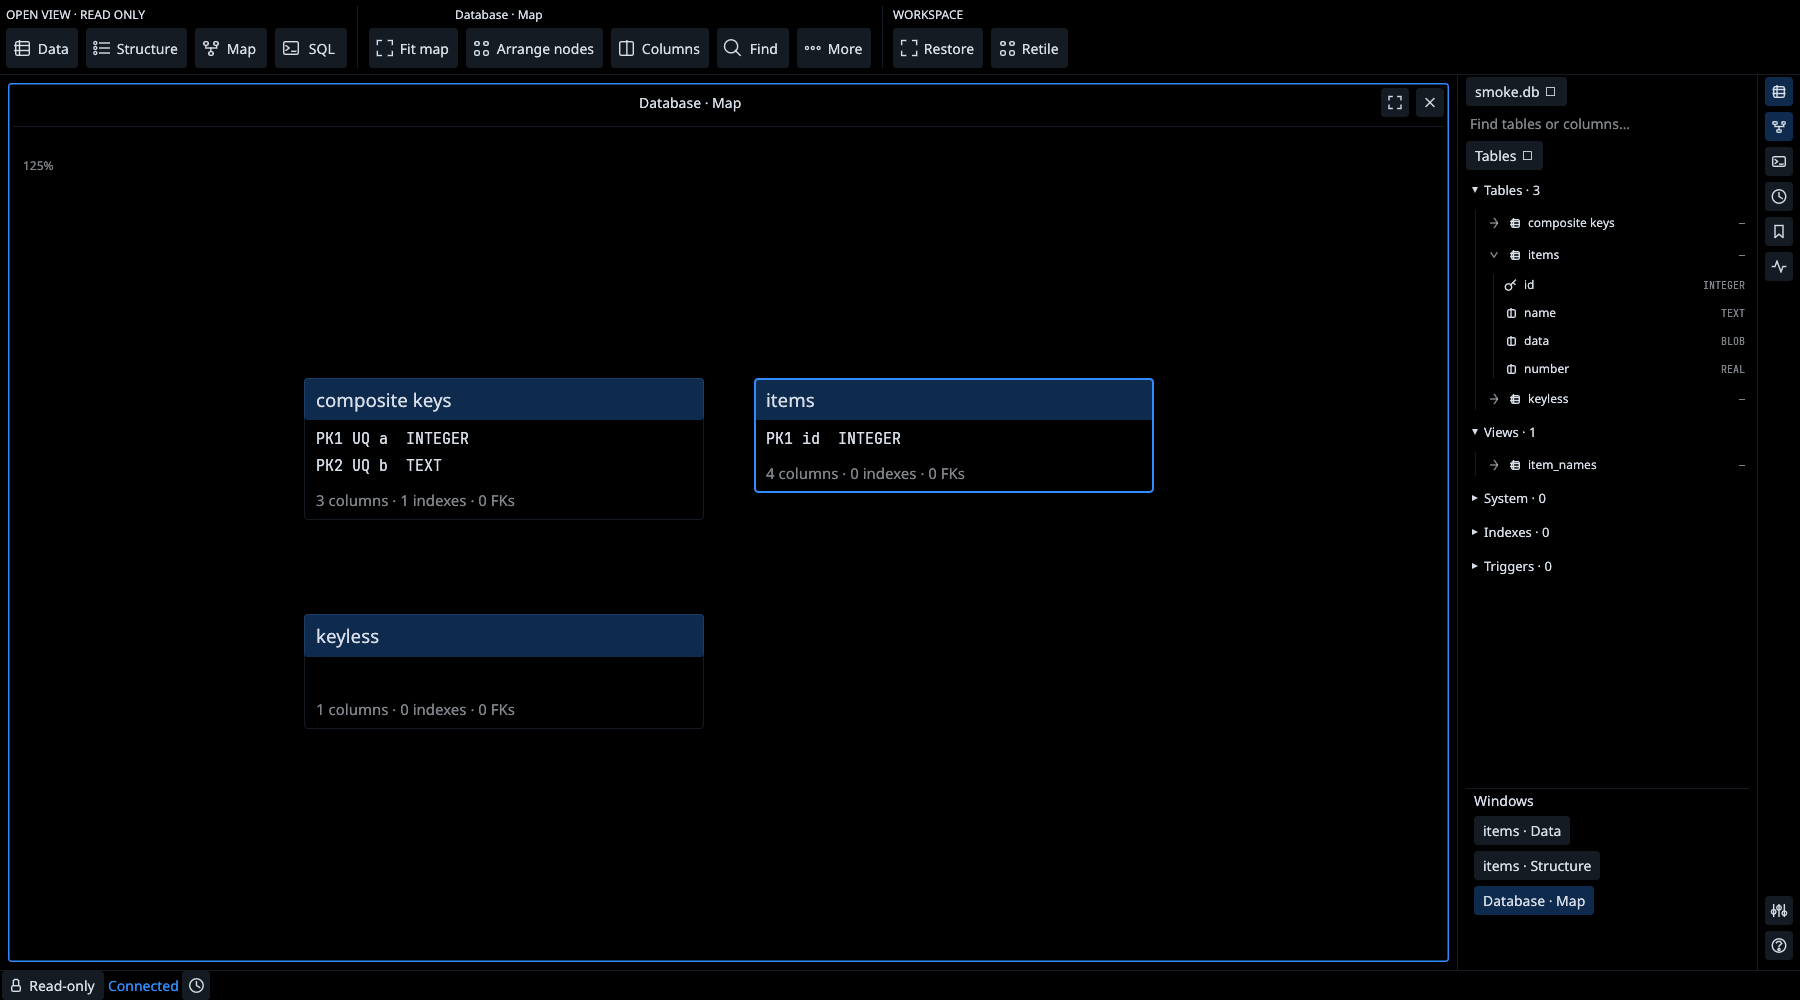
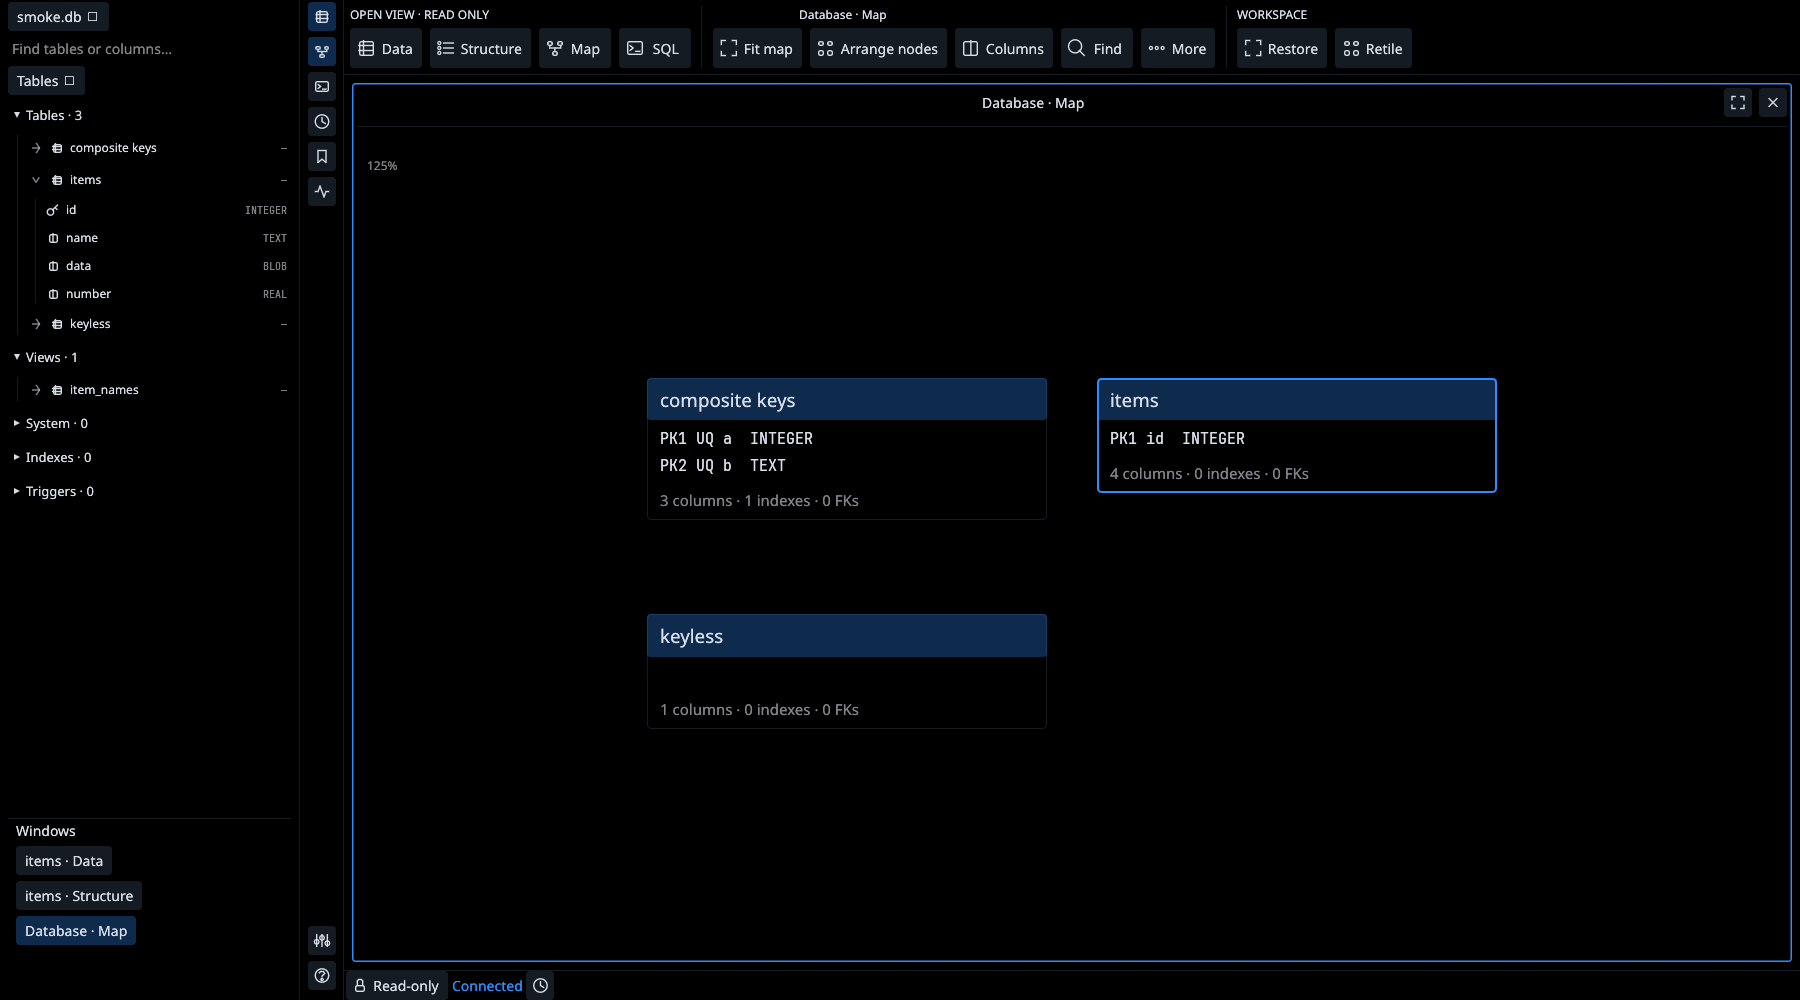
fix: anchor navigation to the full-height left edge

diff --git a/docs/redesign-v5-tiling.html b/docs/redesign-v5-tiling.html
@@ -45,6 +45,11 @@ a{color:var(--primary)} .icon{width:18px;height:18px;fill:none;stroke:currentCol
 @media(min-width:1100px){.source-grid{grid-template-columns:1fr 1fr}.source-grid figure:last-child{grid-column:1/-1}}
 @media(max-width:800px){.app-workspace{grid-template-columns:minmax(0,1fr) 135px}.navigation{padding-left:8px}.prototype{padding:12px}.group{gap:4px;padding-right:8px}.ribbon{gap:8px}.ribbon button{padding:6px 8px}.ribbon .icon{width:18px;height:18px}.principles{grid-template-columns:1fr}.note{display:grid;grid-template-columns:24px 1fr;gap:0 8px}.note .number{grid-row:1/3}.note h3{margin:0 0 4px}.demo-options .hint{width:100%;margin:0}.app-title .db{font-size:10px}}
 @media(max-width:480px){.app-workspace{grid-template-columns:minmax(0,1fr) 51px;gap:6px}.navigation{padding-left:4px}.navigation .nav-text,.navigation .count,.navigation input,.navigation .nav-foot,.window-list .nav-text{display:none}.navigation button{justify-content:center;padding:6px}.navigation .nav-label{font-size:8px;letter-spacing:0;overflow:hidden}.navigation .window-list button{font-size:9px}.app-title .db{display:none}.context .right{display:none}.canvas,.navigation{height:480px}.prototype{padding:10px}.status span:last-child{display:none}.tile-title{font-size:10px}.intro h1{font-size:20px}.tile-header{gap:3px}.tile-header .icon{width:13px}.tile-header button{min-width:25px;width:25px}}
+/* Updated implementation: navigation owns the full left edge, outside all workspace chrome. */
+.prototype{display:grid;grid-template-columns:175px minmax(0,1fr);column-gap:10px}
+.app-workspace{display:contents}.app-title{grid-column:2;grid-row:1}.ribbon{grid-column:2;grid-row:2}.context{grid-column:2;grid-row:3}.canvas{grid-column:2;grid-row:4}.status{grid-column:2;grid-row:5}
+.navigation{grid-column:1;grid-row:1 / 6;height:auto;border-left:0;border-right:1px solid var(--line);padding-left:0;padding-right:10px}
+@media(max-width:760px){.prototype{grid-template-columns:125px minmax(0,1fr)}}
 </style>
 </head>
 <body>
@@ -69,7 +74,7 @@ a{color:var(--primary)} .icon{width:18px;height:18px;fill:none;stroke:currentCol
 <main>
 <div class="intro"><div class="eyebrow">TursoBench / Redesign proposal 05</div>
 <h1>A workspace shaped by your data.</h1>
-<p>System colors. Independent views. A persistent right navigator. Open a view and the workspace makes room for it; expand it when you need to concentrate.</p></div>
+<p>System colors. Independent views. A persistent left navigator. Open a view and the workspace makes room for it; expand it when you need to concentrate.</p></div>
 <div class="demo-options">
 <label>Appearance <select id="palette"><option value="machine">This machine · black / blue</option><option value="system">Follow system · browser</option><option value="light">Light · fallback example</option></select></label>
 <button id="reset">Reset example</button>
@@ -100,7 +105,7 @@ a{color:var(--primary)} .icon{width:18px;height:18px;fill:none;stroke:currentCol
 </div>
 <div class="status"><span>●</span><span>Local · read only</span><span id="status">20 sample rows loaded</span><span>System fonts · 100%</span></div>
 </section>
-<div class="notice" id="notice" role="status" aria-live="polite">Try SQL to add a window. Click a row to open its record. Expand any window; the right navigator stays in place.</div>
+<div class="notice" id="notice" role="status" aria-live="polite">Try SQL to add a window. Click a row to open its record. Expand any window; the left navigator stays in place.</div>
 <div class="legend"><span><i class="dot"></i>Blue outline = focused window</span><span>Drag dividers to resize</span><span><kbd>Esc</kbd> restores tiles</span><span>Ribbon follows focus</span></div>
 <div class="principles">
 <article class="note"><span class="number">01</span><h3>Your theme is the default</h3><p>Black surfaces, blue focus outlines, small corners and system fonts match this machine. Emerald stays in the existing app icon.</p></article>
@@ -119,7 +124,7 @@ a{color:var(--primary)} .icon{width:18px;height:18px;fill:none;stroke:currentCol
 <ul>
 <li><strong>Minimums, then tabs:</strong> provisional native minimums: grid 420 × 200, structure 260 × 180, map 320 × 220, SQL 460 × 200, record 280 × 180 logical pixels. Measure them against system font size and scale. The embedded demo uses smaller minimums to remain usable inside this conversation.</li>
 <li><strong>Preserve intent:</strong> drag splitters, with minimums enforced; manually sized splits stay fixed until Retile. Closing a window collapses its branch. Expanding stores the tree and selected tabs; Restore returns to that exact arrangement. No floating overlays over the grid.</li>
-<li><strong>Small display / many views:</strong> group new windows into tabs when no viable split exists. All views remain reachable from the right navigator. On resize, temporarily collapse unsuitable branches into groups and restore the saved tree when space returns.</li>
+<li><strong>Small display / many views:</strong> group new windows into tabs when no viable split exists. All views remain reachable from the left navigator. On resize, temporarily collapse unsuitable branches into groups and restore the saved tree when space returns.</li>
 <li><strong>Focus is explicit:</strong> a title, border and ribbon label identify the command target. Opening a view while expanded restores the tiled workspace and focuses the new view. Keyboard proposals: <kbd>Ctrl Shift Enter</kbd> expand/restore, <kbd>Esc</kbd> restore, <kbd>Ctrl Tab</kbd> next view; the native implementation must check existing bindings.</li>
 </ul>
 </details>
@@ -215,7 +220,7 @@ a{color:var(--primary)} .icon{width:18px;height:18px;fill:none;stroke:currentCol
       candidates.push({node,axis,ratio,score});
     }
     if(candidates.length){candidates.sort((a,b)=>b.score-a.score);const c=candidates[0],old={...c.node};delete c.node.ids;delete c.node.selected;Object.assign(c.node,{axis:c.axis,ratio:c.ratio,a:old,b:leaf(id)});}
-    else {const target=leaves().find(x=>x.node.ids.includes(active))||leaves().at(-1);target.node.ids.push(id);target.node.selected=id;notify('No readable split remains. The new view joins a tab group and stays accessible in the right navigator.');}
+    else {const target=leaves().find(x=>x.node.ids.includes(active))||leaves().at(-1);target.node.ids.push(id);target.node.selected=id;notify('No readable split remains. The new view joins a tab group and stays accessible in the left navigator.');}
   }
   function rebuild(){root=null;const saved=active;for(const v of views){insert(v.id);active=v.id;}active=saved;selectInTree(active);}
   function open(type,table='chunks',opts={}){
@@ -266,7 +271,7 @@ a{color:var(--primary)} .icon{width:18px;height:18px;fill:none;stroke:currentCol
   }
   function render(){drawn=[];handles=[];canvas.replaceChildren();if(root&&(!expanded)&&(min(root).w>canvas.clientWidth||min(root).h>canvas.clientHeight))rebuild();if(expanded)drawTile(leaf(expanded),bounds());else if(root)walk(root,bounds(),drawTile,drawHandle);else canvas.innerHTML='<div class="empty">Open Data, Structure, Map or SQL from the ribbon.</div>';renderChrome();}
   function renderTables(){const search=$('table-search').value.toLowerCase();$('table-list').innerHTML=tables.filter(t=>t.includes(search)).map(t=>`<button data-table="${t}" title="Open ${t}">${icon('data')}<span class="nav-text">${t}</span><span class="count">${t==='chunks'?'20':'—'}</span></button>`).join('');}
-  function reset(){views=[];root=null;active=null;expanded=null;sequence=0;open('data');open('structure');open('map');active=views[0].id;selectInTree(active);render();notify('Try SQL to add a window. Click a row to open its record. Expand any window; the right navigator stays in place.');}
+  function reset(){views=[];root=null;active=null;expanded=null;sequence=0;open('data');open('structure');open('map');active=views[0].id;selectInTree(active);render();notify('Try SQL to add a window. Click a row to open its record. Expand any window; the left navigator stays in place.');}
   document.addEventListener('click',e=>{const b=e.target.closest('button');if(!b)return;
     if(b.dataset.open){notify('View opened or focused. The existing window state is retained.');open(b.dataset.open);}
     else if(b.dataset.table){if(b.dataset.table==='chunks')open('data','chunks');else{open('data',b.dataset.table);notify(b.dataset.table+' opened as an independent window. Rows in this prototype reuse the chunks sample to demonstrate layout.');}}

diff --git a/crates/tursobench-ui/src/app/inspector.rs b/crates/tursobench-ui/src/app/inspector.rs
@@ -323,7 +323,7 @@ impl App {
             let mut open = true;
             egui::Window::new("Keyboard and safety reference").open(&mut open).default_width(560.0).show(ctx,|ui|{
                 egui::ScrollArea::vertical().max_height(500.0).show(ui,|ui|{
-                    for line in ["Rail: Tables / Map / History / Saved / Checks; Settings opens in the workspace","Ctrl+K: tables / columns / commands · Ctrl+J: SQL view · Ctrl+1 / Ctrl+2: Data / Structure","Ctrl+O: database chooser · Folder icon / Alt+Enter: file dialog · F1: help · Ctrl+T: theme","Database chooser: Down enters results; Up/Down browses; Enter selects; typing resumes search","In SQL editor: Ctrl+Enter / F5 runs one statement; Ctrl+Shift+Enter runs selection/current statement; Ctrl+Space completes","Ctrl+Shift+C: retained TSV · Ctrl+E: export · Alt+Left: Back / return to table","Grid: arrows move, Shift+arrows extend, Space opens record detail, Ctrl+C copies selection","Double-click / Enter: inline stage · Escape: cancel · right-click: typed detail / filter / copy","Headers: drag to move, edge drag to resize, double-click edge to fit; funnel shows sampled values","Ctrl+Alt+Enter: expand/restore view · Ctrl+Tab: next view · right navigation remains visible","Scroll / PgDn: load bounded pages; Ctrl+F: typed tokens. Map camera is saved on close.","Exports/copies never rerun SQL and exclude staged overlays","Discard suppresses delivery; execution and writes continue until the worker reports completion","Closing waits for actual execution and rollback acknowledgement","Writable SQL autocommits unless you BEGIN; staged edits require review and explicit commit"]{ui.label(line);}
+                    for line in ["Rail: Tables / Map / History / Saved / Checks; Settings opens in the workspace","Ctrl+K: tables / columns / commands · Ctrl+J: SQL view · Ctrl+1 / Ctrl+2: Data / Structure","Ctrl+O: database chooser · Folder icon / Alt+Enter: file dialog · F1: help · Ctrl+T: theme","Database chooser: Down enters results; Up/Down browses; Enter selects; typing resumes search","In SQL editor: Ctrl+Enter / F5 runs one statement; Ctrl+Shift+Enter runs selection/current statement; Ctrl+Space completes","Ctrl+Shift+C: retained TSV · Ctrl+E: export · Alt+Left: Back / return to table","Grid: arrows move, Shift+arrows extend, Space opens record detail, Ctrl+C copies selection","Double-click / Enter: inline stage · Escape: cancel · right-click: typed detail / filter / copy","Headers: drag to move, edge drag to resize, double-click edge to fit; funnel shows sampled values","Ctrl+Alt+Enter: expand/restore view · Ctrl+Tab: next view · left navigation remains visible","Scroll / PgDn: load bounded pages; Ctrl+F: typed tokens. Map camera is saved on close.","Exports/copies never rerun SQL and exclude staged overlays","Discard suppresses delivery; execution and writes continue until the worker reports completion","Closing waits for actual execution and rollback acknowledgement","Writable SQL autocommits unless you BEGIN; staged edits require review and explicit commit"]{ui.label(line);}
                 });
             });
             self.tools.help = open;

diff --git a/crates/tursobench-ui/src/app/shell.rs b/crates/tursobench-ui/src/app/shell.rs
@@ -67,6 +67,10 @@ pub(super) struct UiState {
     pub grid_rect: egui::Rect,
     #[cfg(test)]
     pub visible_rows: usize,
+    #[cfg(test)]
+    pub ribbon_actions: Vec<egui::Rect>,
+    #[cfg(test)]
+    pub rail_rect: egui::Rect,
 }
 impl UiState {
     pub fn new(ctx: &egui::Context) -> Self {
@@ -98,6 +102,10 @@ impl UiState {
             grid_rect: egui::Rect::NOTHING,
             #[cfg(test)]
             visible_rows: 0,
+            #[cfg(test)]
+            ribbon_actions: vec![],
+            #[cfg(test)]
+            rail_rect: egui::Rect::NOTHING,
         }
     }
 }
@@ -148,22 +156,14 @@ impl App {
         #[cfg(test)]
         {
             self.ui.transaction_rects.clear();
+            self.ui.ribbon_actions.clear();
             self.ui.sidebar_rect = egui::Rect::NOTHING;
             self.ui.visible_rows = 0;
         }
         let layout = Layout::new(ui.available_width());
-        self.status_bar(ui);
-        if self.workspace.enabled {
-            self.command_ribbon(ui);
-        }
-        if self.session.is_some() {
-            egui::Panel::right("activity-rail")
-                .exact_size(44.0)
-                .resizable(false)
-                .show(ui, |ui| self.activity_rail(ui));
-        }
+        // Reserve full-height navigation before the workspace ribbon and status bar.
         {
-            let panel = egui::Panel::right("workspace-sidebar")
+            let panel = egui::Panel::left("workspace-sidebar")
                 .resizable(true)
                 .default_size(if self.session.is_none() && ui.available_width() >= 900.0 {
                     300.0
@@ -192,6 +192,22 @@ impl App {
             }
             #[cfg(not(test))]
             let _ = panel;
+        }
+        if self.session.is_some() {
+            let rail = egui::Panel::left("activity-rail")
+                .exact_size(44.0)
+                .resizable(false)
+                .show(ui, |ui| self.activity_rail(ui));
+            #[cfg(test)]
+            {
+                self.ui.rail_rect = rail.response.rect;
+            }
+            #[cfg(not(test))]
+            let _ = rail;
+        }
+        self.status_bar(ui);
+        if self.workspace.enabled {
+            self.command_ribbon(ui);
         }
         if !self.workspace.enabled {
             if self.document.ui.nav == Nav::Table

diff --git a/crates/tursobench-ui/src/app/interaction_tests.rs b/crates/tursobench-ui/src/app/interaction_tests.rs
@@ -98,7 +98,7 @@ fn sql_selection_shortcut_and_window_expansion_have_distinct_targets() {
         vec![key(egui::Modifiers::CTRL | egui::Modifiers::ALT)],
     );
     assert_eq!(app.workspace.expanded, Some(app.document.id));
-    assert!(app.ui.sidebar_rect.left() >= app.workspace.area.right());
+    assert!(app.ui.sidebar_rect.right() <= app.workspace.area.left());
     app.focus_window(editor);
     app.request_close_window(editor);
     assert_eq!(
@@ -298,7 +298,21 @@ fn diagram_preserves_drafts_and_result_ownership_and_chrome_fits_both_themes() {
             for _ in 0..2 {
                 frame_at(&mut app, &ctx, egui::vec2(width, height), vec![]);
             }
-            assert!(app.ui.sidebar_rect.left() >= app.workspace.area.right());
+            assert!(app.ui.sidebar_rect.right() <= app.workspace.area.left());
+            let viewport = ctx.content_rect();
+            assert_eq!(app.ui.sidebar_rect.left(), viewport.left());
+            for rect in [app.ui.sidebar_rect, app.ui.rail_rect] {
+                assert_eq!(rect.top(), viewport.top());
+                assert_eq!(rect.bottom(), viewport.bottom());
+            }
+            for rect in &app.ui.ribbon_actions {
+                assert!(
+                    viewport.contains_rect(*rect),
+                    "ribbon action outside viewport: {rect:?}"
+                );
+                assert!(rect.left() >= app.ui.rail_rect.right());
+                assert!(rect.height() >= 40.0);
+            }
             for (_, rect) in &app.workspace.tiles {
                 assert!(app.workspace.area.contains_rect(*rect));
             }
@@ -307,7 +321,7 @@ fn diagram_preserves_drafts_and_result_ownership_and_chrome_fits_both_themes() {
             frame_at(&mut app, &ctx, egui::vec2(width, height), vec![]);
             assert_eq!(app.workspace.tiles.len(), 1);
             assert_eq!(app.workspace.tiles[0].0, map);
-            assert!(app.ui.sidebar_rect.left() >= app.workspace.tiles[0].1.right());
+            assert!(app.ui.sidebar_rect.right() <= app.workspace.tiles[0].1.left());
             app.expand_window(map);
             assert_eq!(app.workspace.tree, saved);
         }

diff --git a/crates/tursobench-ui/src/app/ribbon.rs b/crates/tursobench-ui/src/app/ribbon.rs
@@ -244,6 +244,8 @@ impl App {
                 icons::action(ui, icon, label)
             })
             .inner;
+        #[cfg(test)]
+        self.ui.ribbon_actions.push(response.rect);
         if response.clicked() {
             self.dispatch_action(action, ui.ctx());
         }
@@ -268,6 +270,7 @@ impl App {
             .show(ui, |ui| {
                 let wide = ui.available_width() >= 1120.0;
                 let narrow = ui.available_width() < 850.0;
+                let compact = ui.available_width() < 650.0;
                 ui.horizontal(|ui| {
                     ui.spacing_mut().item_spacing.x = 8.0;
                     ui.vertical(|ui| {
@@ -420,6 +423,10 @@ impl App {
                                     }
                                     _ => {}
                                 }
+                                if compact {
+                                    ui.separator();
+                                    self.ribbon_menu_action(ui, Retile, "Retile windows");
+                                }
                                 if self.executing() {
                                     ui.separator();
                                     self.ribbon_menu_action(
@@ -445,7 +452,9 @@ impl App {
                                     "Expand"
                                 },
                             );
-                            self.ribbon_action(ui, Retile, Icon::Arrange, "Retile");
+                            if !compact {
+                                self.ribbon_action(ui, Retile, Icon::Arrange, "Retile");
+                            }
                         });
                     });
                 });

diff --git a/crates/tursobench-ui/src/app/workspace.rs b/crates/tursobench-ui/src/app/workspace.rs
@@ -346,7 +346,7 @@ impl App {
             self.workspace.tiles.clear();
         }
         let Some(tree) = &self.workspace.tree else {
-            ui.label("Open a table, Map or SQL from the right navigator.");
+            ui.label("Open a table, Map or SQL from the left navigator.");
             return;
         };
         let profiles = self.profiles();

diff --git a/docs/guide.md b/docs/guide.md
@@ -53,7 +53,7 @@ are unsupported. The exclusive-use checkbox is an acknowledgement, not an OS loc
 ## Features
 
 - Startup database discovery across application data/state and development folders, with recent files, Turso/SQLite/unknown type icons, a per-file SQLite override, and search-folder controls. See [discovery behavior and limits](database-discovery.md).
-- Persistent right navigator, independent Data/Structure/Map/SQL/Result/Record tiles, and a contextual ribbon.
+- Persistent left navigator, independent Data/Structure/Map/SQL/Result/Record tiles, and a contextual ribbon.
 - Engine-enforced read-only opening by default; read/write is explicit opt-in.
 - Searchable schema/DDL, native index/FK details, related-row navigation and read-only diagnostics.
 - Relationship-arranged schema home: tables, keys, composite/self/cyclic FKs, Map/List fallback and saved map layout.

diff --git a/docs/ui-redesign.md b/docs/ui-redesign.md
@@ -12,7 +12,8 @@ Dark remain available; legacy saved dark/light choices are preserved until chang
 in Settings. Unsupported GTK color expressions use the neutral semantic fallback.
 
 Every Data, Structure, Map, SQL, Result and pinned Record view is a window. The
-right navigator remains visible when a window expands. Click a window or its
+left navigator spans the full application height, including alongside the ribbon
+and status bar, and remains visible when a window expands. Click a window or its
 navigator entry to focus it; Ctrl Tab cycles, Ctrl Alt Enter expands/restores and
 Escape restores after dismissing any active edit/dialog. Ctrl J opens SQL;
 Ctrl 1/2 opens Data/Structure. Ctrl Enter runs SQL; Ctrl Shift Enter runs selection.

diff --git a/docs/assets/ui/README.md b/docs/assets/ui/README.md
@@ -31,8 +31,8 @@ an isolated preferences directory and the existing painter icons. System capture
 use this workstation's GTK black/blue named palette and system fonts; the light
 capture uses the app's explicit Light override. No personal database was opened.
 
-- `v5/tiled-system.png`: Data, Structure and Map with contextual ribbon and right navigator.
-- `v5/expanded-map.png`: expanded map; right navigation remains visible.
+- `v5/tiled-system.png`: Data, Structure and Map with contextual ribbon and left navigator.
+- `v5/expanded-map.png`: expanded map; left navigation remains visible.
 - `v5/tiled-light.png`: the same tiled workspace in Light.
 
 Capture support is opt-in for the existing native smoke runner: set
